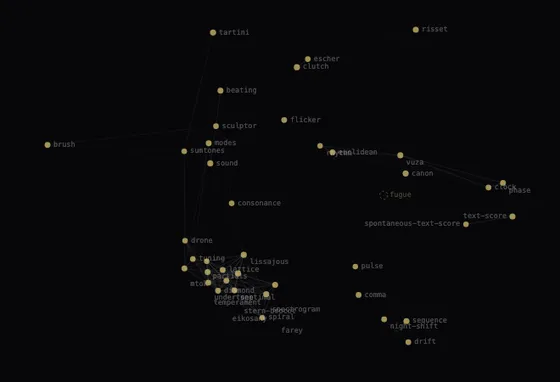
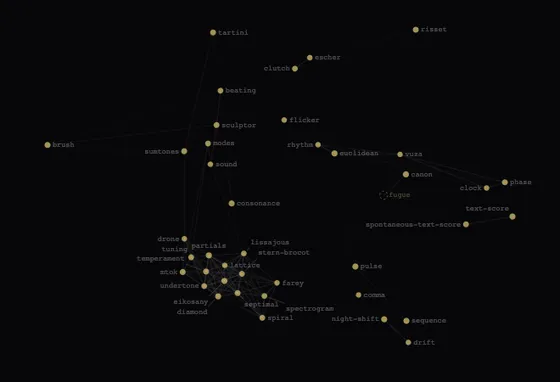
nest: readable labels, S1 contrast, one hollow egg, current blurbs; map re-molted (audit 09-30 H-3 H-6 hub deferred)
Labels are placed once against the settled layout and never cover another
label or dot (overlapping pairs 13 -> 0 at 1280 and 390); far ones get a
leader line. Back link and sub/hint/dims move to --control/--dim; title,
header comment, em dashes and "the hollow one" fixed. Spectrogram and
sumtones blurbs updated in the vector store and rebaked.

diff --git a/nest.html b/nest.html
@@ -6,13 +6,14 @@
   <link rel="icon" type="image/png" sizes="32x32" href="assets/favicon-32.png">
   <link rel="icon" type="image/png" sizes="16x16" href="assets/favicon-16.png">
   <link rel="apple-touch-icon" href="assets/apple-touch-icon.png">
-  <title>nest</title>
+  <title>nest — David Carlton Adams</title>
   <style>
     * { box-sizing: border-box; margin: 0; padding: 0; }
     :root {
       --bg:     #070709;
       --text:   #ccc8d0;
-      --dim:    rgba(204,200,208,0.40);
+      --control: rgba(204,200,208,0.58);  /* 4.55:1 on --bg: anything clickable */
+      --dim:    rgba(204,200,208,0.40);   /* decoration only */
       --dimmer: rgba(204,200,208,0.17);
       --gold:   #d4c070;
     }
@@ -29,11 +30,11 @@
     }
     .eggs-back {
       position: fixed; top: .7rem; left: 1rem;
-      font-size: .58rem; color: #332; text-decoration: none;
+      font-size: .58rem; color: var(--control); text-decoration: none;
       letter-spacing: .08em; font-family: 'SF Mono','Fira Code',monospace;
       z-index: 100; transition: color .15s;
     }
-    .eggs-back:hover { color: #aaa; }
+    .eggs-back:hover { color: var(--text); }
 
     .header { text-align: center; }
     .title {
@@ -45,7 +46,7 @@
     .sub {
       font-size: 0.57rem;
       letter-spacing: 0.09em;
-      color: var(--dimmer);
+      color: var(--dim);
       font-style: italic;
       margin-top: 0.42rem;
       max-width: 540px;
@@ -77,14 +78,14 @@
     .cap-dims {
       font-size: 0.53rem;
       letter-spacing: 0.12em;
-      color: var(--dimmer);
+      color: var(--dim);
       font-family: 'SF Mono','Fira Code',monospace;
       margin-top: 0.25rem;
     }
     .hint {
       font-size: 0.53rem;
       letter-spacing: 0.1em;
-      color: var(--dimmer);
+      color: var(--dim);
       font-style: italic;
     }
   </style>
@@ -94,7 +95,7 @@
 
 <div class="header">
   <h1 class="title">nest</h1>
-  <p class="sub">a map of the eggs. each one was scored along eight conceptual dimensions — ratio, rhythm, psychoacoustics, illusion, process, visible math, playability, score — and the eight-dimensional space was flattened to this plane. distance is kinship; the layout was found, not designed. hollow eggs are unhatched: gaps the space itself begs for. this map is always slightly out of date, which is how you know the nest is alive.</p>
+  <p class="sub">a map of the eggs. each one was scored along eight conceptual dimensions (ratio, rhythm, psychoacoustics, illusion, process, visible math, playability, score), and the eight-dimensional space was flattened to this plane. distance is kinship; the layout was found, not designed. the hollow one is unhatched, a gap the space itself begs for. this map is always slightly out of date, which is how you know the nest is alive.</p>
 </div>
 
 <canvas id="cv"></canvas>
@@ -105,18 +106,22 @@
   <div class="cap-dims" id="capDims">&nbsp;</div>
 </div>
 
-<p class="hint">tap once to look · tap a lit egg to visit · hollow eggs aren't built yet</p>
+<p class="hint">tap once to look · tap a lit egg to visit · the hollow one isn't built yet</p>
 
 <script>
 // ─────────────────────────────────────────────────────────────
-//  nest — the eggs as points in concept space
-//  Coordinates are a baked MDS embedding (k=8 → 2D, stress 0.23)
-//  of hand-curated concept vectors. Edges join pairs whose
-//  cosine similarity exceeds 0.90. A light live relaxation
-//  separates near-identical siblings without leaving home.
+//  nest · the eggs as points in concept space
+//  DATA below is generated, never hand-edited: the rebake script
+//  reads the 8-dim concept vectors in assets/eggs/nest-vectors.json,
+//  runs classical MDS on cosine distance down to 2D, pushes apart
+//  any two eggs closer than 0.03 of the map, and joins pairs whose
+//  cosine similarity exceeds 0.90. Most vectors are reconstructions
+//  (see the store's _meta). Edit the store, then rebake.
+//  A light live relaxation keeps close neighbours from touching;
+//  labels are placed once, against where that relaxation settles.
 // ─────────────────────────────────────────────────────────────
 
-const DATA = {"nodes":[{"n":"diamond","x":0.368,"y":0.829,"d":"Partch's tonality diamond \u00b7 O- and U-tonalities","top":["ratio","playable","visible math"],"ghost":false},{"n":"lattice","x":0.376,"y":0.775,"d":"5-limit lattice \u00b7 fifths \u00d7 thirds","top":["ratio","visible math","playable"],"ghost":false},{"n":"septimal","x":0.399,"y":0.829,"d":"7-limit oblique lattice","top":["ratio","visible math","playable"],"ghost":false},{"n":"tuning","x":0.313,"y":0.737,"d":"microtonal keyboard \u00b7 five systems","top":["playable","ratio","rhythm"],"ghost":false},{"n":"canon","x":0.77,"y":0.459,"d":"canon machine \u00b7 draw, add voices","top":["process","playable","rhythm"],"ghost":false},{"n":"lissajous","x":0.422,"y":0.721,"d":"every ratio has a shape \u00b7 spin one, keep a scale","top":["visible math","ratio","playable"],"ghost":false},{"n":"partials","x":0.342,"y":0.746,"d":"harmonic series explorer","top":["ratio","playable","visible math"],"ghost":false},{"n":"sound","x":0.35,"y":0.427,"d":"interactive sound field","top":["playable","visible math","ratio"],"ghost":false},{"n":"text-score","x":1.0,"y":0.598,"d":"performance instructions, random","top":["score","process","ratio"],"ghost":false},{"n":"spontaneous-text-score","x":0.9,"y":0.623,"d":"procedural score generator","top":["score","process","visible math"],"ghost":false},{"n":"drone","x":0.296,"y":0.676,"d":"JI drone machine","top":["ratio","playable","psychoacoustics"],"ghost":false},{"n":"spectrogram","x":0.472,"y":0.844,"d":"mic FFT with JI partial markers","top":["visible math","ratio","rhythm"],"ghost":false},{"n":"clock","x":0.95,"y":0.504,"d":"synchronized performance clock","top":["rhythm","process","visible math"],"ghost":false},{"n":"mtok","x":0.296,"y":0.762,"d":"microtonal keyboard, XY expression","top":["playable","ratio","rhythm"],"ghost":false},{"n":"fugue","x":0.723,"y":0.53,"d":"unhatched \u00b7 a fugue machine that earns the name, real entries, honest answers","top":["process","playable","score"],"ghost":true},{"n":"undertone","x":0.349,"y":0.806,"d":"the mirror of the overtone series","top":["ratio","playable","visible math"],"ghost":false},{"n":"spiral","x":0.462,"y":0.922,"d":"spiral of fifths \u00b7 the comma visible","top":["ratio","visible math","rhythm"],"ghost":false},{"n":"sumtones","x":0.294,"y":0.389,"d":"combination tones \u00b7 Tartini's difference tone, plus the sum","top":["psychoacoustics","playable","ratio"],"ghost":false},{"n":"beating","x":0.372,"y":0.195,"d":"interference \u00b7 the third rhythm","top":["psychoacoustics","visible math","playable"],"ghost":false},{"n":"modes","x":0.347,"y":0.363,"d":"same notes, different homes","top":["playable","ratio","rhythm"],"ghost":false},{"n":"consonance","x":0.396,"y":0.556,"d":"the harmonic landscape, plotted","top":["psychoacoustics","ratio","visible math"],"ghost":false},{"n":"temperament","x":0.346,"y":0.776,"d":"drag the fifth \u00b7 WTK playback","top":["ratio","playable","visible math"],"ghost":false},{"n":"stern-brocot","x":0.406,"y":0.783,"d":"every rational exactly once","top":["ratio","visible math","playable"],"ghost":false},{"n":"sequence","x":0.772,"y":0.933,"d":"JI sequencer \u00b7 dwell or resolve","top":["ratio","rhythm","process"],"ghost":false},{"n":"drift","x":0.776,"y":1.0,"d":"generative ambient \u00b7 tuning breathes","top":["process","ratio","rhythm"],"ghost":false},{"n":"phase","x":0.978,"y":0.491,"d":"two tempos, one pattern","top":["rhythm","process","visible math"],"ghost":false},{"n":"eikosany","x":0.384,"y":0.803,"d":"combination-product sets","top":["ratio","visible math","playable"],"ghost":false},{"n":"euclidean","x":0.611,"y":0.391,"d":"E(n,k) rhythm rings","top":["rhythm","visible math","playable"],"ghost":false},{"n":"pulse","x":0.662,"y":0.758,"d":"pitch ratios are rhythm ratios","top":["rhythm","ratio","visible math"],"ghost":false},{"n":"sculptor","x":0.362,"y":0.31,"d":"harmonics build the waveform","top":["visible math","playable","psychoacoustics"],"ghost":false},{"n":"farey","x":0.488,"y":0.819,"d":"fractions around the circle","top":["visible math","ratio","rhythm"],"ghost":false},{"n":"escher","x":0.558,"y":0.096,"d":"endless rising \u00b7 the illusion","top":["illusion","psychoacoustics","visible math"],"ghost":false},{"n":"rhythm","x":0.588,"y":0.373,"d":"polyrhythm orrery \u00b7 six planets, one bar","top":["rhythm","visible math","playable"],"ghost":false},{"n":"comma","x":0.669,"y":0.849,"d":"the pump \u00b7 harmony that really sinks","top":["ratio","illusion","process"],"ghost":false},{"n":"clutch","x":0.538,"y":0.118,"d":"duet \u00b7 escher \u00d7 comma, rate-locked","top":["illusion","psychoacoustics","visible math"],"ghost":false},{"n":"night-shift","x":0.724,"y":0.927,"d":"JI nocturne \u00b7 the machine plays to an empty room","top":["process","ratio","visible math"],"ghost":false},{"n":"flicker","x":0.509,"y":0.289,"d":"the rhythm\u2192pitch continuum \u00b7 a pulse accelerated until it is a tone","top":["rhythm","psychoacoustics","playable"],"ghost":false},{"n":"tartini","x":0.356,"y":0.009,"d":"combination tones, genuinely in the signal \u00b7 Tartini's terzo suono","top":["psychoacoustics","playable","illusion"],"ghost":false},{"n":"risset","x":0.792,"y":0.0,"d":"shepard\u2013risset accelerando \u00b7 forever faster, never faster","top":["illusion","rhythm","psychoacoustics"],"ghost":false},{"n":"vuza","x":0.759,"y":0.403,"d":"rhythm canons that tile time \u00b7 72 slots, each struck once","top":["rhythm","visible math","process"],"ghost":false},{"n":"brush","x":0.0,"y":0.369,"d":"paint a spectrum, then play it from a keyboard","top":["playable","psychoacoustics","visible math"],"ghost":false}],"edges":[[0,1,0.989],[0,2,0.989],[0,3,0.959],[0,5,0.972],[0,6,1.0],[0,10,0.94],[0,11,0.907],[0,13,0.959],[0,15,1.0],[0,16,0.931],[0,21,1.0],[0,22,0.989],[0,26,0.989],[0,30,0.907],[1,2,1.0],[1,3,0.907],[1,5,0.986],[1,6,0.989],[1,10,0.903],[1,11,0.959],[1,13,0.907],[1,15,0.989],[1,16,0.971],[1,21,0.989],[1,22,1.0],[1,26,1.0],[1,30,0.959],[2,3,0.907],[2,5,0.986],[2,6,0.989],[2,10,0.903],[2,11,0.959],[2,13,0.907],[2,15,0.989],[2,16,0.971],[2,21,0.989],[2,22,1.0],[2,26,1.0],[2,30,0.959],[3,6,0.959],[3,10,0.959],[3,13,1.0],[3,15,0.959],[3,19,0.93],[3,21,0.959],[3,22,0.907],[3,26,0.907],[4,14,0.94],[4,39,0.901],[5,6,0.972],[5,7,0.926],[5,11,0.954],[5,15,0.972],[5,16,0.942],[5,21,0.972],[5,22,0.986],[5,26,0.986],[5,29,0.911],[5,30,0.954],[6,10,0.94],[6,11,0.907],[6,13,0.959],[6,15,1.0],[6,16,0.931],[6,21,1.0],[6,22,0.989],[6,26,0.989],[6,30,0.907],[7,19,0.93],[7,29,0.959],[7,40,0.905],[8,9,0.971],[8,14,0.907],[10,13,0.959],[10,15,0.94],[10,17,0.956],[10,21,0.94],[10,22,0.903],[10,26,0.903],[11,15,0.907],[11,16,0.987],[11,21,0.907],[11,22,0.959],[11,26,0.959],[11,30,1.0],[12,25,1.0],[12,27,0.903],[12,32,0.903],[12,39,0.972],[13,15,0.959],[13,19,0.93],[13,21,0.959],[13,22,0.907],[13,26,0.907],[15,16,0.931],[15,21,1.0],[15,22,0.989],[15,26,0.989],[15,30,0.907],[16,21,0.931],[16,22,0.971],[16,26,0.971],[16,30,0.987],[17,18,0.903],[17,20,0.903],[17,37,0.94],[17,40,0.908],[18,20,0.903],[18,29,0.967],[18,37,0.903],[18,40,0.913],[21,22,0.989],[21,26,0.989],[21,30,0.907],[22,26,1.0],[22,30,0.959],[23,24,0.907],[23,28,0.929],[24,33,0.907],[24,35,0.971],[25,27,0.903],[25,32,0.903],[25,39,0.972],[26,30,0.959],[27,28,0.903],[27,32,1.0],[27,39,0.95],[28,32,0.903],[29,40,0.927],[31,34,1.0],[31,38,0.903],[32,39,0.95],[34,38,0.903]]};
+const DATA = {"nodes":[{"n":"diamond","x":0.368,"y":0.829,"d":"Partch's tonality diamond \u00b7 O- and U-tonalities","top":["ratio","playable","visible math"],"ghost":false},{"n":"lattice","x":0.376,"y":0.775,"d":"5-limit lattice \u00b7 fifths \u00d7 thirds","top":["ratio","visible math","playable"],"ghost":false},{"n":"septimal","x":0.399,"y":0.829,"d":"7-limit oblique lattice","top":["ratio","visible math","playable"],"ghost":false},{"n":"tuning","x":0.313,"y":0.737,"d":"microtonal keyboard \u00b7 five systems","top":["playable","ratio","rhythm"],"ghost":false},{"n":"canon","x":0.77,"y":0.459,"d":"canon machine \u00b7 draw, add voices","top":["process","playable","rhythm"],"ghost":false},{"n":"lissajous","x":0.422,"y":0.721,"d":"every ratio has a shape \u00b7 spin one, keep a scale","top":["visible math","ratio","playable"],"ghost":false},{"n":"partials","x":0.342,"y":0.746,"d":"harmonic series explorer","top":["ratio","playable","visible math"],"ghost":false},{"n":"sound","x":0.35,"y":0.427,"d":"interactive sound field","top":["playable","visible math","ratio"],"ghost":false},{"n":"text-score","x":1.0,"y":0.598,"d":"performance instructions, random","top":["score","process","ratio"],"ghost":false},{"n":"spontaneous-text-score","x":0.9,"y":0.623,"d":"procedural score generator","top":["score","process","visible math"],"ghost":false},{"n":"drone","x":0.296,"y":0.676,"d":"JI drone machine","top":["ratio","playable","psychoacoustics"],"ghost":false},{"n":"spectrogram","x":0.472,"y":0.844,"d":"mic spectrum and scrolling spectrogram \u00b7 harmonic markers","top":["visible math","ratio","rhythm"],"ghost":false},{"n":"clock","x":0.95,"y":0.504,"d":"synchronized performance clock","top":["rhythm","process","visible math"],"ghost":false},{"n":"mtok","x":0.296,"y":0.762,"d":"microtonal keyboard, XY expression","top":["playable","ratio","rhythm"],"ghost":false},{"n":"fugue","x":0.723,"y":0.53,"d":"unhatched \u00b7 a fugue machine that earns the name, real entries, honest answers","top":["process","playable","score"],"ghost":true},{"n":"undertone","x":0.349,"y":0.806,"d":"the mirror of the overtone series","top":["ratio","playable","visible math"],"ghost":false},{"n":"spiral","x":0.462,"y":0.922,"d":"spiral of fifths \u00b7 the comma visible","top":["ratio","visible math","rhythm"],"ghost":false},{"n":"sumtones","x":0.294,"y":0.389,"d":"combination tones \u00b7 Tartini's difference tone, the cubic tone and the sum","top":["psychoacoustics","playable","ratio"],"ghost":false},{"n":"beating","x":0.372,"y":0.195,"d":"interference \u00b7 the third rhythm","top":["psychoacoustics","visible math","playable"],"ghost":false},{"n":"modes","x":0.347,"y":0.363,"d":"same notes, different homes","top":["playable","ratio","rhythm"],"ghost":false},{"n":"consonance","x":0.396,"y":0.556,"d":"the harmonic landscape, plotted","top":["psychoacoustics","ratio","visible math"],"ghost":false},{"n":"temperament","x":0.346,"y":0.776,"d":"drag the fifth \u00b7 WTK playback","top":["ratio","playable","visible math"],"ghost":false},{"n":"stern-brocot","x":0.406,"y":0.783,"d":"every rational exactly once","top":["ratio","visible math","playable"],"ghost":false},{"n":"sequence","x":0.772,"y":0.933,"d":"JI sequencer \u00b7 dwell or resolve","top":["ratio","rhythm","process"],"ghost":false},{"n":"drift","x":0.776,"y":1.0,"d":"generative ambient \u00b7 tuning breathes","top":["process","ratio","rhythm"],"ghost":false},{"n":"phase","x":0.978,"y":0.491,"d":"two tempos, one pattern","top":["rhythm","process","visible math"],"ghost":false},{"n":"eikosany","x":0.384,"y":0.803,"d":"combination-product sets","top":["ratio","visible math","playable"],"ghost":false},{"n":"euclidean","x":0.611,"y":0.391,"d":"E(n,k) rhythm rings","top":["rhythm","visible math","playable"],"ghost":false},{"n":"pulse","x":0.662,"y":0.758,"d":"pitch ratios are rhythm ratios","top":["rhythm","ratio","visible math"],"ghost":false},{"n":"sculptor","x":0.362,"y":0.31,"d":"harmonics build the waveform","top":["visible math","playable","psychoacoustics"],"ghost":false},{"n":"farey","x":0.488,"y":0.819,"d":"fractions around the circle","top":["visible math","ratio","rhythm"],"ghost":false},{"n":"escher","x":0.558,"y":0.096,"d":"endless rising \u00b7 the illusion","top":["illusion","psychoacoustics","visible math"],"ghost":false},{"n":"rhythm","x":0.588,"y":0.373,"d":"polyrhythm orrery \u00b7 six planets, one bar","top":["rhythm","visible math","playable"],"ghost":false},{"n":"comma","x":0.669,"y":0.849,"d":"the pump \u00b7 harmony that really sinks","top":["ratio","illusion","process"],"ghost":false},{"n":"clutch","x":0.538,"y":0.118,"d":"duet \u00b7 escher \u00d7 comma, rate-locked","top":["illusion","psychoacoustics","visible math"],"ghost":false},{"n":"night-shift","x":0.724,"y":0.927,"d":"JI nocturne \u00b7 the machine plays to an empty room","top":["process","ratio","visible math"],"ghost":false},{"n":"flicker","x":0.509,"y":0.289,"d":"the rhythm\u2192pitch continuum \u00b7 a pulse accelerated until it is a tone","top":["rhythm","psychoacoustics","playable"],"ghost":false},{"n":"tartini","x":0.356,"y":0.009,"d":"combination tones, genuinely in the signal \u00b7 Tartini's terzo suono","top":["psychoacoustics","playable","illusion"],"ghost":false},{"n":"risset","x":0.792,"y":0.0,"d":"shepard\u2013risset accelerando \u00b7 forever faster, never faster","top":["illusion","rhythm","psychoacoustics"],"ghost":false},{"n":"vuza","x":0.759,"y":0.403,"d":"rhythm canons that tile time \u00b7 72 slots, each struck once","top":["rhythm","visible math","process"],"ghost":false},{"n":"brush","x":0.0,"y":0.369,"d":"paint a spectrum, then play it from a keyboard","top":["playable","psychoacoustics","visible math"],"ghost":false}],"edges":[[0,1,0.989],[0,2,0.989],[0,3,0.959],[0,5,0.972],[0,6,1.0],[0,10,0.94],[0,11,0.907],[0,13,0.959],[0,15,1.0],[0,16,0.931],[0,21,1.0],[0,22,0.989],[0,26,0.989],[0,30,0.907],[1,2,1.0],[1,3,0.907],[1,5,0.986],[1,6,0.989],[1,10,0.903],[1,11,0.959],[1,13,0.907],[1,15,0.989],[1,16,0.971],[1,21,0.989],[1,22,1.0],[1,26,1.0],[1,30,0.959],[2,3,0.907],[2,5,0.986],[2,6,0.989],[2,10,0.903],[2,11,0.959],[2,13,0.907],[2,15,0.989],[2,16,0.971],[2,21,0.989],[2,22,1.0],[2,26,1.0],[2,30,0.959],[3,6,0.959],[3,10,0.959],[3,13,1.0],[3,15,0.959],[3,19,0.93],[3,21,0.959],[3,22,0.907],[3,26,0.907],[4,14,0.94],[4,39,0.901],[5,6,0.972],[5,7,0.926],[5,11,0.954],[5,15,0.972],[5,16,0.942],[5,21,0.972],[5,22,0.986],[5,26,0.986],[5,29,0.911],[5,30,0.954],[6,10,0.94],[6,11,0.907],[6,13,0.959],[6,15,1.0],[6,16,0.931],[6,21,1.0],[6,22,0.989],[6,26,0.989],[6,30,0.907],[7,19,0.93],[7,29,0.959],[7,40,0.905],[8,9,0.971],[8,14,0.907],[10,13,0.959],[10,15,0.94],[10,17,0.956],[10,21,0.94],[10,22,0.903],[10,26,0.903],[11,15,0.907],[11,16,0.987],[11,21,0.907],[11,22,0.959],[11,26,0.959],[11,30,1.0],[12,25,1.0],[12,27,0.903],[12,32,0.903],[12,39,0.972],[13,15,0.959],[13,19,0.93],[13,21,0.959],[13,22,0.907],[13,26,0.907],[15,16,0.931],[15,21,1.0],[15,22,0.989],[15,26,0.989],[15,30,0.907],[16,21,0.931],[16,22,0.971],[16,26,0.971],[16,30,0.987],[17,18,0.903],[17,20,0.903],[17,37,0.94],[17,40,0.908],[18,20,0.903],[18,29,0.967],[18,37,0.903],[18,40,0.913],[21,22,0.989],[21,26,0.989],[21,30,0.907],[22,26,1.0],[22,30,0.959],[23,24,0.907],[23,28,0.929],[24,33,0.907],[24,35,0.971],[25,27,0.903],[25,32,0.903],[25,39,0.972],[26,30,0.959],[27,28,0.903],[27,32,1.0],[27,39,0.95],[28,32,0.903],[29,40,0.927],[31,34,1.0],[31,38,0.903],[32,39,0.95],[34,38,0.903]]};
 
 // ── Canvas ───────────────────────────────────────────────────
 const canvas = document.getElementById('cv');
@@ -165,6 +170,73 @@ function relax() {
   }
 }
 
+// ── Labels: placed once, against the settled layout ──────────
+// The relaxation is run to rest on the live nodes, then rewound so the
+// opening drift still plays; labels stay put at their settled spots while
+// the dots drift into place. Each label tries spots around its dot,
+// nearest first (right, left, the four diagonals, above, below), and
+// takes the first that covers no placed label and no other dot and sits
+// closer to its own dot than to any other; failing that, the spot that
+// breaks those rules least. Crowded eggs choose first. A label that had
+// to sit away from its dot gets a faint leader line.
+const LABEL_FONT = "8.5px 'SF Mono', monospace";
+const LH = 11;                                   // label box height, px (text + gap)
+function placeLabels() {
+  const saved = nodes.map(n => [n.px, n.py, n.vx, n.vy]);
+  for (let k = 0; k < 600; k++) relax();
+  const fx = nodes.map(n => n.px), fy = nodes.map(n => n.py);
+  nodes.forEach((n, i) => { [n.px, n.py, n.vx, n.vy] = saved[i]; });
+
+  c.font = LABEL_FONT;
+  const DOT = 4.5;
+  const dots = nodes.map((_, i) => [fx[i] - DOT, fy[i] - DOT, fx[i] + DOT, fy[i] + DOT]);
+  const crowd = nodes.map((_, i) => nodes.reduce(
+    (s, _n, j) => s + (Math.hypot(fx[i] - fx[j], fy[i] - fy[j]) < 40 ? 1 : 0), 0));
+  const order = nodes.map((_, i) => i).sort((a, b) => crowd[b] - crowd[a] || a - b);
+  const ANGLES = [0, 180, -45, 45, -135, 135, -90, 90, -20, 20, -160, 160]
+    .map(d => d * Math.PI / 180);
+  const RADII = [6, 11, 18, 27, 38, 52, 68, 86];
+  const cover = (a, b) =>
+    Math.max(0, Math.min(a[2], b[2]) - Math.max(a[0], b[0])) *
+    Math.max(0, Math.min(a[3], b[3]) - Math.max(a[1], b[1]));
+  const gap = (b, x, y) =>                       // distance from a point to a box
+    Math.hypot(Math.max(b[0] - x, 0, x - b[2]), Math.max(b[1] - y, 0, y - b[3]));
+  const placed = [];
+  for (const i of order) {
+    const w = c.measureText(nodes[i].n).width;
+    let best = null, bestScore = Infinity;
+    search:
+    for (const r of RADII) for (const a of ANGLES) {
+      const ca = Math.cos(a), sa = Math.sin(a);
+      const cx = fx[i] + (Math.abs(ca) < 1e-9 ? 0 : Math.sign(ca) * (r * Math.abs(ca) + w / 2));
+      const cy = fy[i] + (Math.abs(sa) < 1e-9 ? 0 : Math.sign(sa) * (r * Math.abs(sa) + LH / 2));
+      const box = [cx - w / 2 - 2, cy - LH / 2, cx + w / 2 + 2, cy + LH / 2];
+      if (box[0] < 2 || box[2] > W - 2 || box[1] < 2 || box[3] > H - 2) continue;
+      let hit = 0, nearer = 0, near = 0;
+      for (const p of placed) hit += 4 * cover(box, p);
+      const own = gap(box, fx[i], fy[i]);
+      for (let j = 0; j < dots.length; j++) {
+        if (j === i) continue;
+        hit += cover(box, dots[j]);
+        const g = gap(box, fx[j], fy[j]);
+        if (g < own) nearer++;                  // would read as j's label
+        else if (g < own + 6) near++;           // could
+      }
+      if (hit === 0 && nearer === 0 && near === 0) { best = { box, r }; break search; }
+      const score = hit * 100 + nearer * 300 + near * 40 + r;
+      if (score < bestScore) { bestScore = score; best = { box, r }; }
+    }
+    if (!best) best = { box: [fx[i] + 6, fy[i] - LH / 2, fx[i] + 10 + w, fy[i] + LH / 2], r: 6 };
+    placed.push(best.box);
+    const nd = nodes[i];
+    nd.lx = best.box[0] + 2;                    // text left edge, fixed on the canvas
+    nd.ly = (best.box[1] + best.box[3]) / 2;
+    nd.lw = w;
+    nd.lead = best.r > 6;
+  }
+}
+placeLabels();
+
 // ── Draw ─────────────────────────────────────────────────────
 function draw(t) {
   c.clearRect(0, 0, W, H);
@@ -180,18 +252,8 @@ function draw(t) {
     c.beginPath(); c.moveTo(a.px, a.py); c.lineTo(b.px, b.py); c.stroke();
   }
 
-  // label de-collision: nudge later labels down when neighbors crowd
-  for (let i = 0; i < nodes.length; i++) nodes[i].ldy = 0;
-  for (let i = 0; i < nodes.length; i++)
-    for (let j = i + 1; j < nodes.length; j++) {
-      const a = nodes[i], b = nodes[j];
-      if (Math.abs(a.px - b.px) < 80 &&
-          Math.abs((a.py + a.ldy) - (b.py + b.ldy)) < 9)
-        b.ldy += 9;
-    }
-
   // nodes + labels
-  c.font = "8.5px 'SF Mono', monospace";
+  c.font = LABEL_FONT;
   c.textBaseline = 'middle';
   for (let i = 0; i < nodes.length; i++) {
     const nd = nodes[i];
@@ -215,14 +277,26 @@ function draw(t) {
         c.beginPath(); c.arc(nd.px, nd.py, 16, 0, Math.PI * 2); c.fill();
       }
     }
-    // label — right of dot, flipped to left near right edge
-    const label = nd.n;
-    const wpx = c.measureText(label).width;
-    const lx = nd.px + 7 + wpx > W - 6 ? nd.px - 7 - wpx : nd.px + 7;
+    // label, where placeLabels put it; a leader line if it sits away
+    const lx = nd.lx, ly = nd.ly;
+    if (nd.lead) {
+      const tx = Math.max(lx, Math.min(nd.px, lx + nd.lw));
+      const ty = Math.max(ly - LH / 2, Math.min(nd.py, ly + LH / 2));
+      const d = Math.hypot(tx - nd.px, ty - nd.py);
+      if (d > r + 4) {
+        const ux = (tx - nd.px) / d, uy = (ty - nd.py) / d;
+        c.strokeStyle = lit ? 'rgba(238,224,168,0.5)' : 'rgba(204,200,208,0.3)';
+        c.lineWidth = 0.6;
+        c.beginPath();
+        c.moveTo(nd.px + ux * (r + 2), nd.py + uy * (r + 2));
+        c.lineTo(tx - ux * 2, ty - uy * 2);
+        c.stroke();
+      }
+    }
     c.fillStyle = lit ? 'rgba(238,224,168,0.95)'
                 : nd.ghost ? 'rgba(212,192,112,0.30)'
                 : 'rgba(204,200,208,0.34)';
-    c.fillText(label, lx, nd.py + nd.ldy);
+    c.fillText(nd.n, lx, ly);
   }
 }
 
